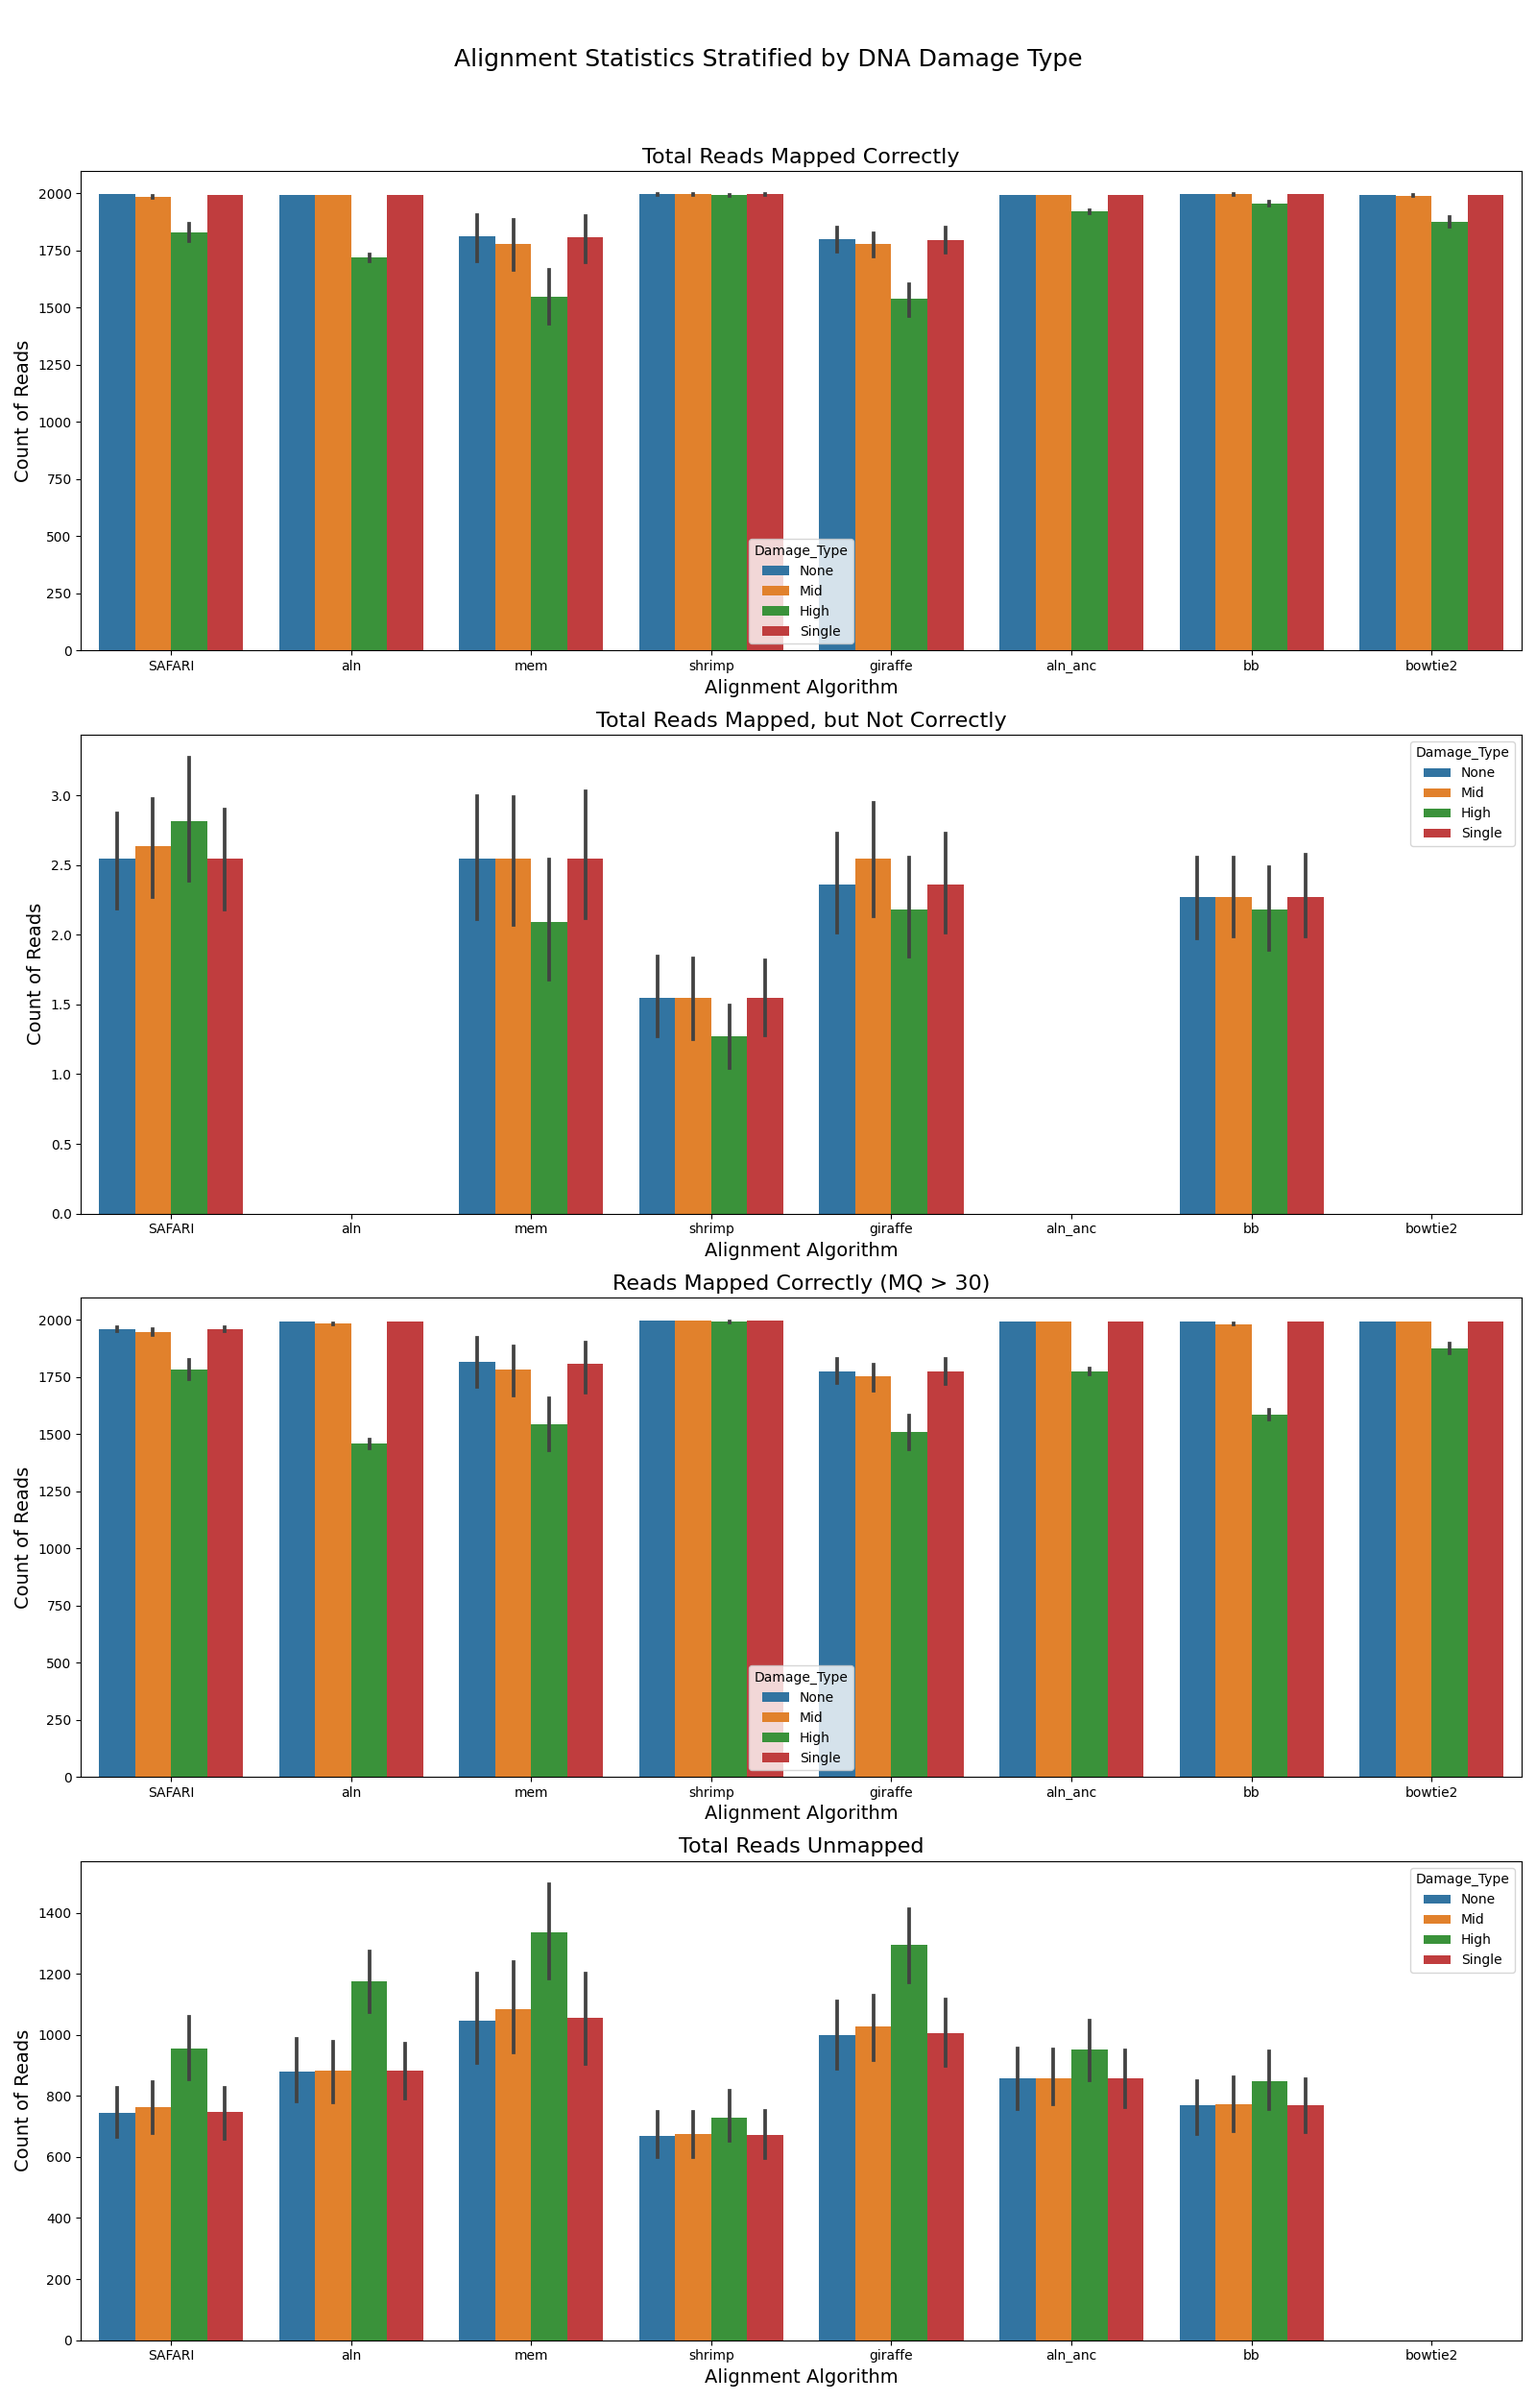
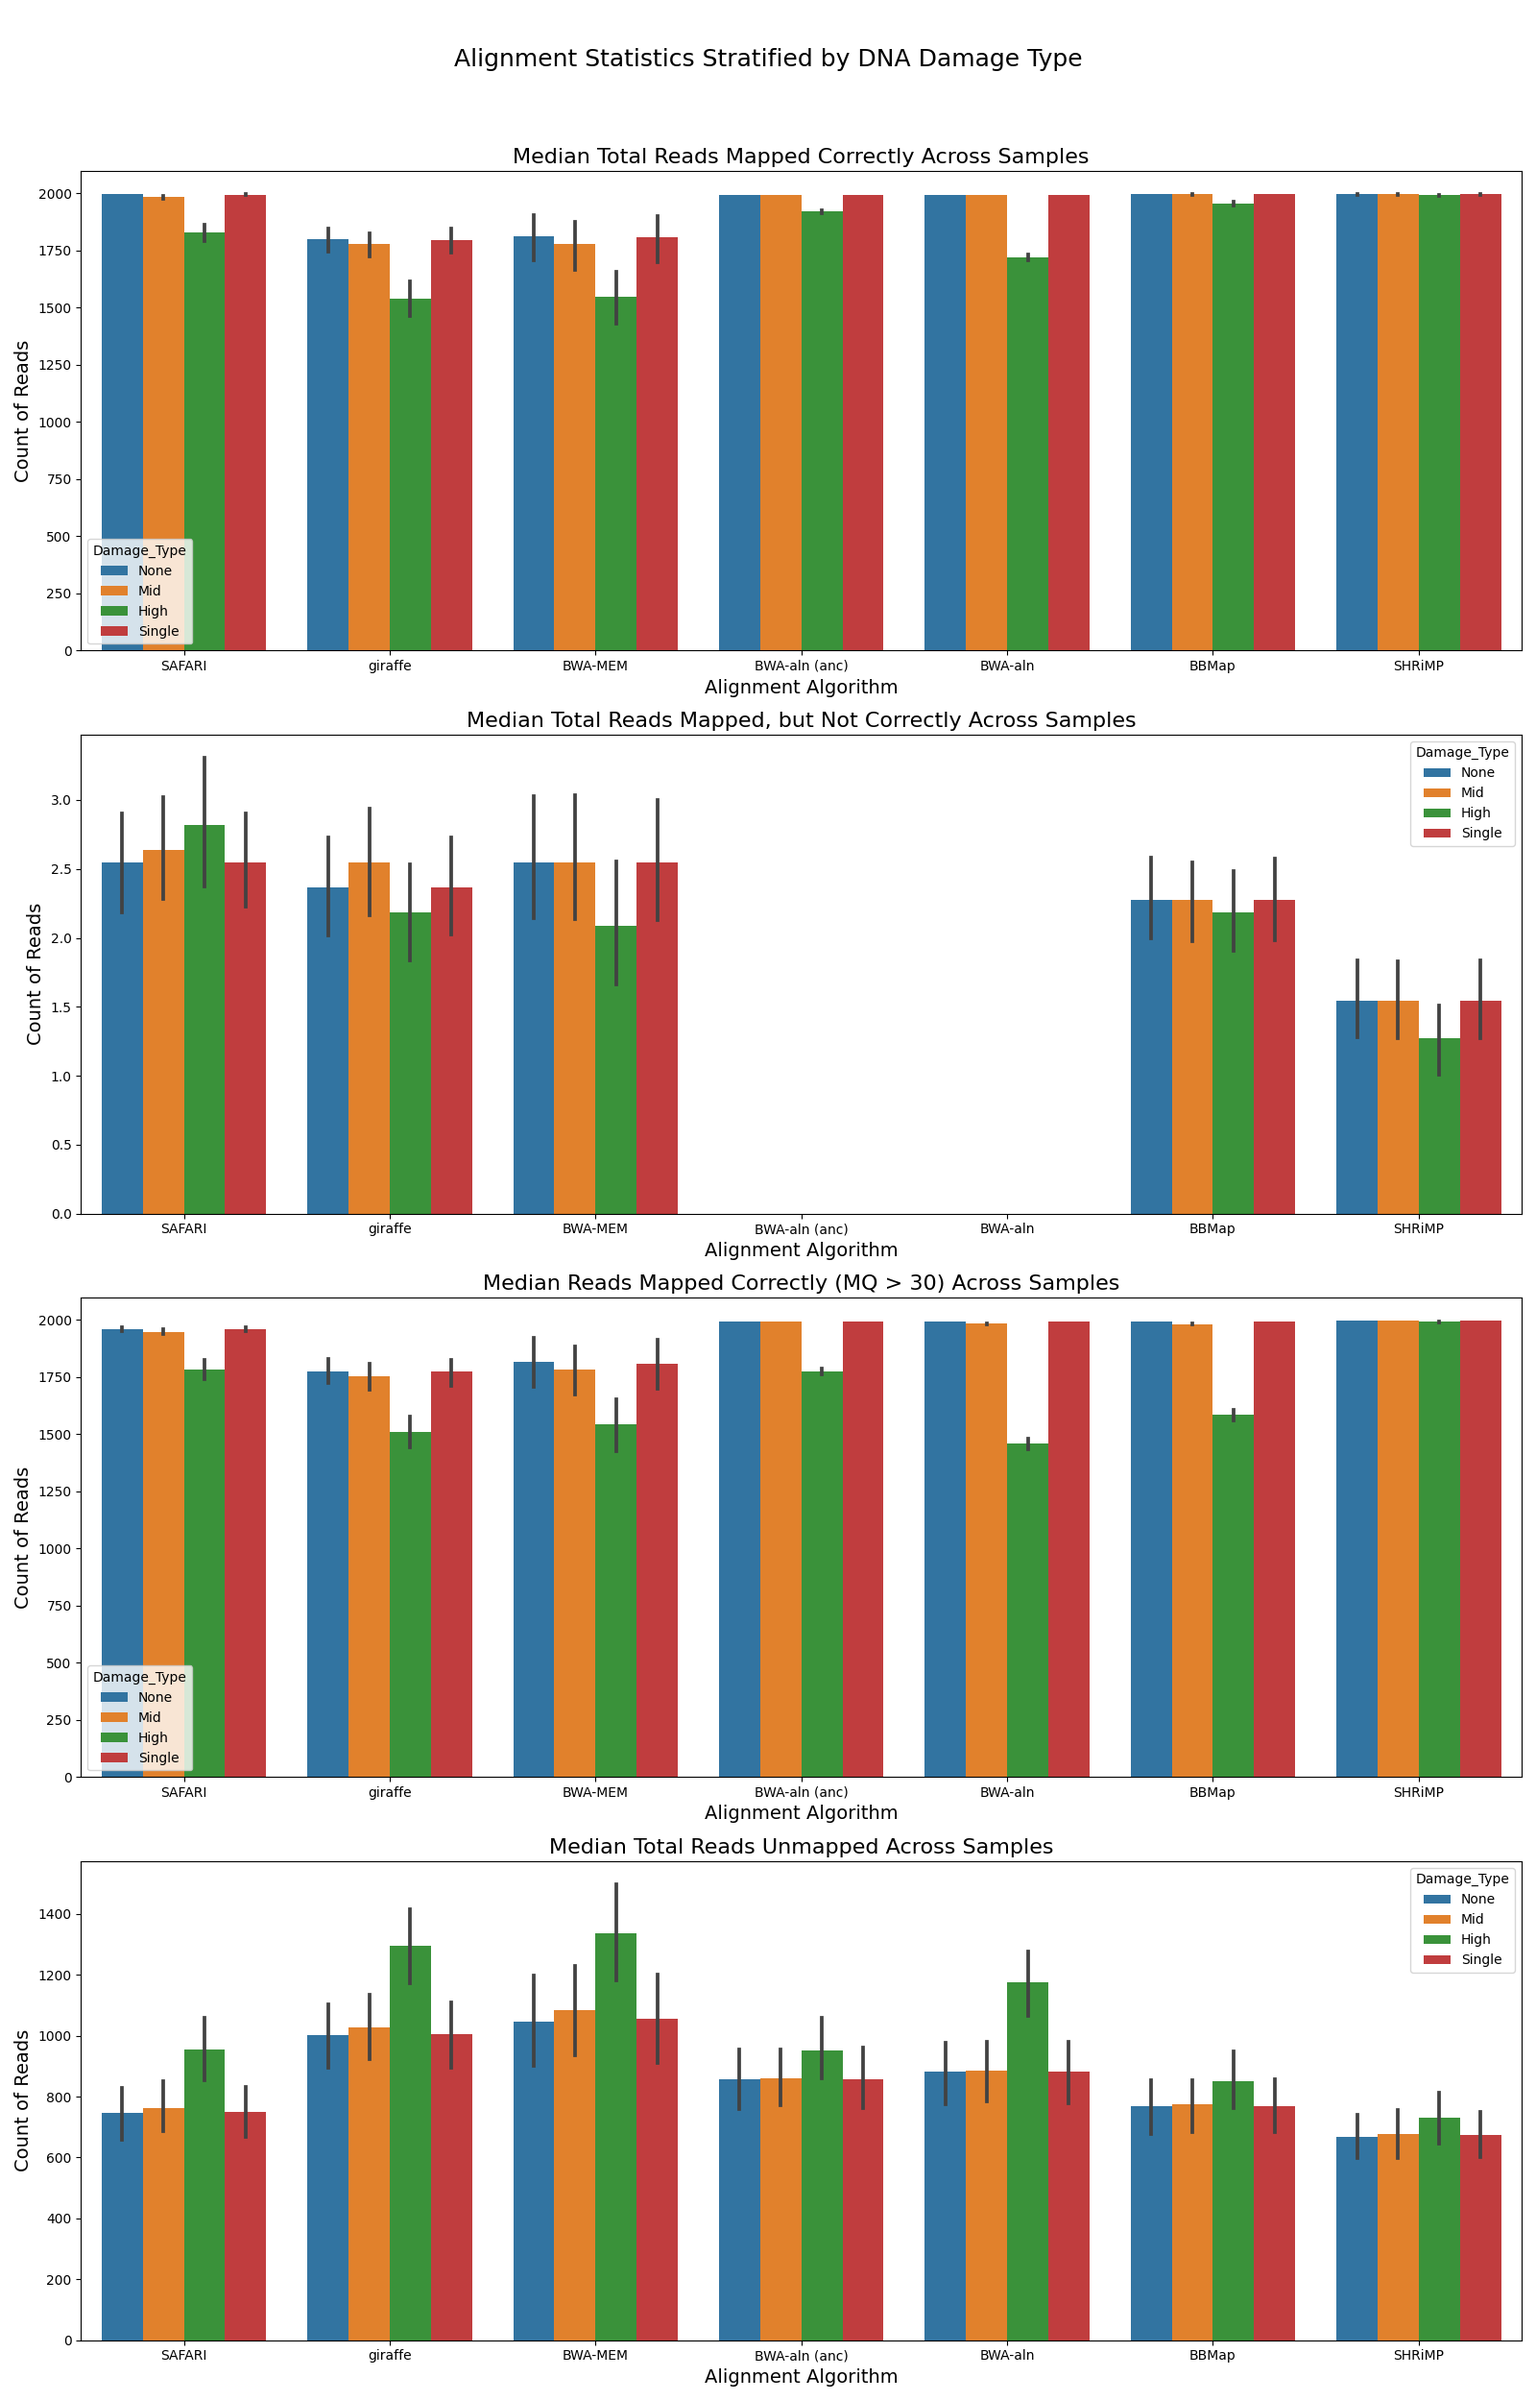
Update

diff --git a/linear_experiment/human_mito/linear_benchmark.py b/linear_experiment/human_mito/linear_benchmark.py
@@ -18,17 +18,28 @@ def create_new_plot(df, file_name, title):
     custom_order_df['Damage_Type'] = custom_order_df['Damage_Type'].map(damage_type_rename)
 
     # Handling Aligner Name
-    custom_order_df['Aligner_Name'] = custom_order_df['Aligner_Name'].replace('safari', 'SAFARI')
+    aligner_rename = {
+        'safari': 'SAFARI',
+        'mem': 'BWA-MEM',
+        'aln_anc': 'BWA-aln (anc)',
+        'aln': 'BWA-aln',
+        'bb': 'BBMap',
+        'shrimp': 'SHRiMP'
+    }
+    custom_order_df['Aligner_Name'] = custom_order_df['Aligner_Name'].replace(aligner_rename)
 
-    # Calculate the mean total number of reads by aligner
-    mean_total_reads = df.groupby('Aligner_Name')[['Mapped_to_MT', 'Mapped_to_MT_Correct_Location', 'Mapped_to_MT_Correct_Location_MQ>30', 'Unmapped_Reads']].sum().median(axis=1).mean()
+    # Define a custom order for the Aligner Name and then sort the dataframe by this order
+    custom_aligner_order = ['SAFARI', 'giraffe', 'BWA-MEM', 'BWA-aln (anc)', 'BWA-aln', 'BBMap', 'SHRiMP']
+    custom_order_df['Aligner_Name'] = custom_order_df['Aligner_Name'].astype('category')
+    custom_order_df['Aligner_Name'].cat.set_categories(custom_aligner_order, ordered=True, inplace=True)
+    custom_order_df.sort_values('Aligner_Name', inplace=True)
 
-    # Define the questions and corresponding columns for new plots
+    # Questions and corresponding columns for new plots
     questions_columns = [
-        ("Total Reads Mapped Correctly", "Mapped_to_MT_Correct_Location"),
-        ("Total Reads Mapped, but Not Correctly", "Mapped_NOT_Correctly"),
-        ("Reads Mapped Correctly (MQ > 30)", "Mapped_to_MT_Correct_Location_MQ>30"),
-        ("Total Reads Unmapped", "Unmapped_Reads")
+        ("Median Total Reads Mapped Correctly Across Samples", "Mapped_to_MT_Correct_Location"),
+        ("Median Total Reads Mapped, but Not Correctly Across Samples", "Mapped_NOT_Correctly"),
+        ("Median Reads Mapped Correctly (MQ > 30) Across Samples", "Mapped_to_MT_Correct_Location_MQ>30"),
+        ("Median Total Reads Unmapped Across Samples", "Unmapped_Reads")
     ]
 
     fig, axes = plt.subplots(len(questions_columns), 1, figsize=(16, 25))
@@ -53,7 +64,7 @@ def create_new_plot(df, file_name, title):
     plt.tight_layout(rect=[0, 0, 1, 0.96])
     plt.savefig(file_name)
 
-# Load the new data
+# Load the data
 file_path = 'alignment_stats.csv'
 df_new = pd.read_csv(file_path)
 
@@ -66,4 +77,5 @@ damage_type_rename = {'none': 'None', 'dmid': 'Mid', 'dhigh': 'High', 'single': 
 
 # Create the new plot
 create_new_plot(df_new, "linear_benchmark.png", "Alignment Statistics Stratified by DNA Damage Type")
+
 
